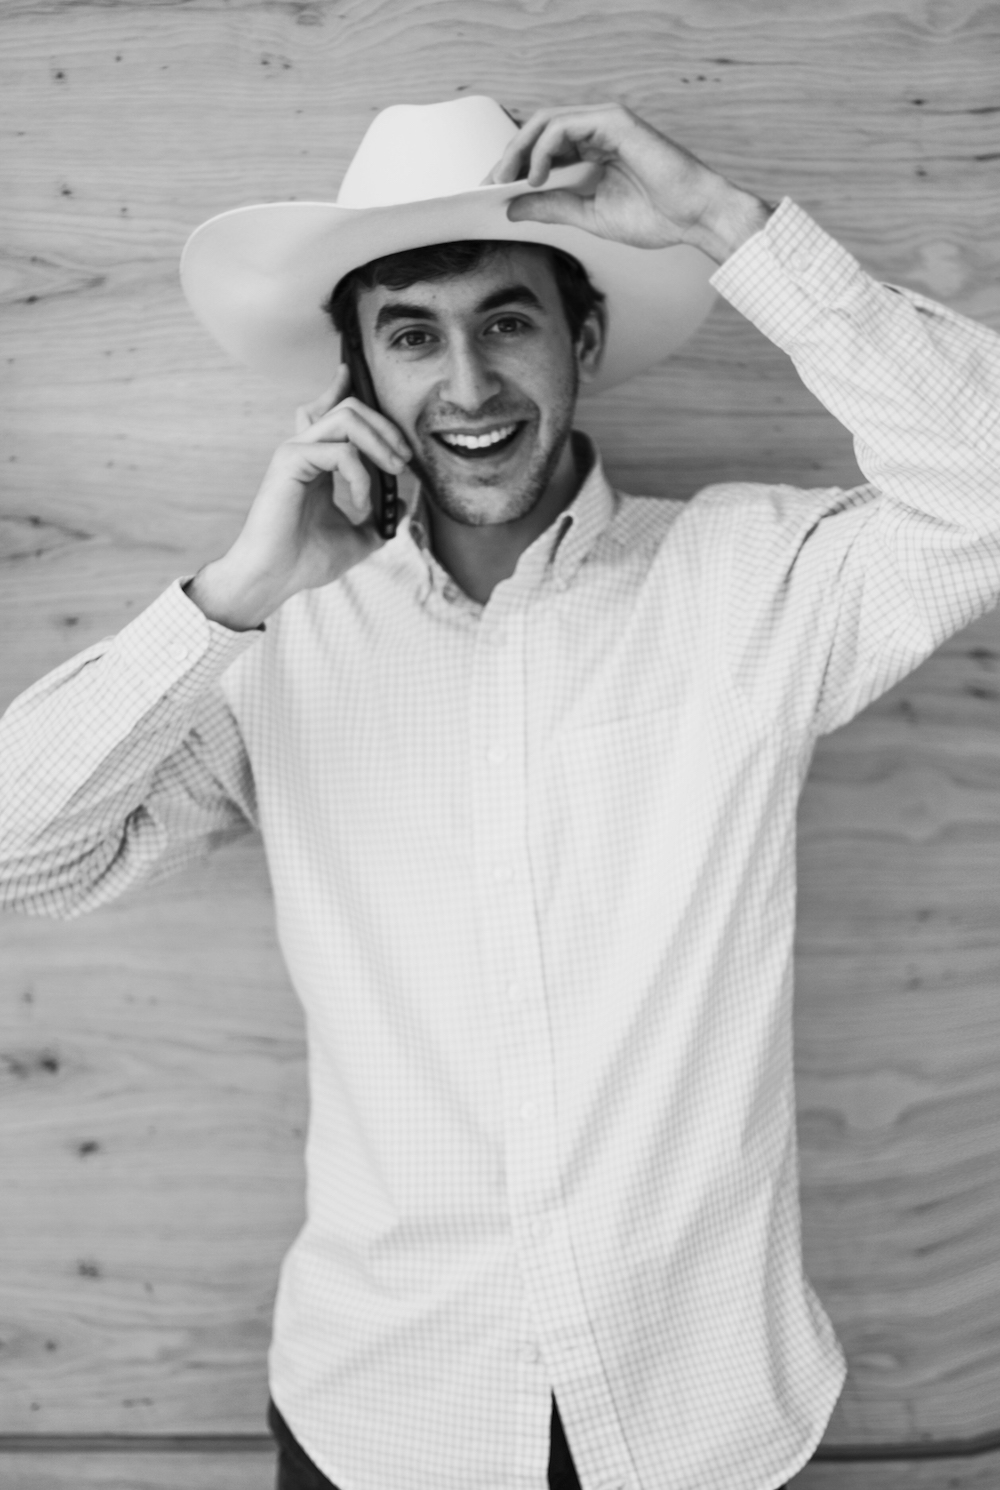
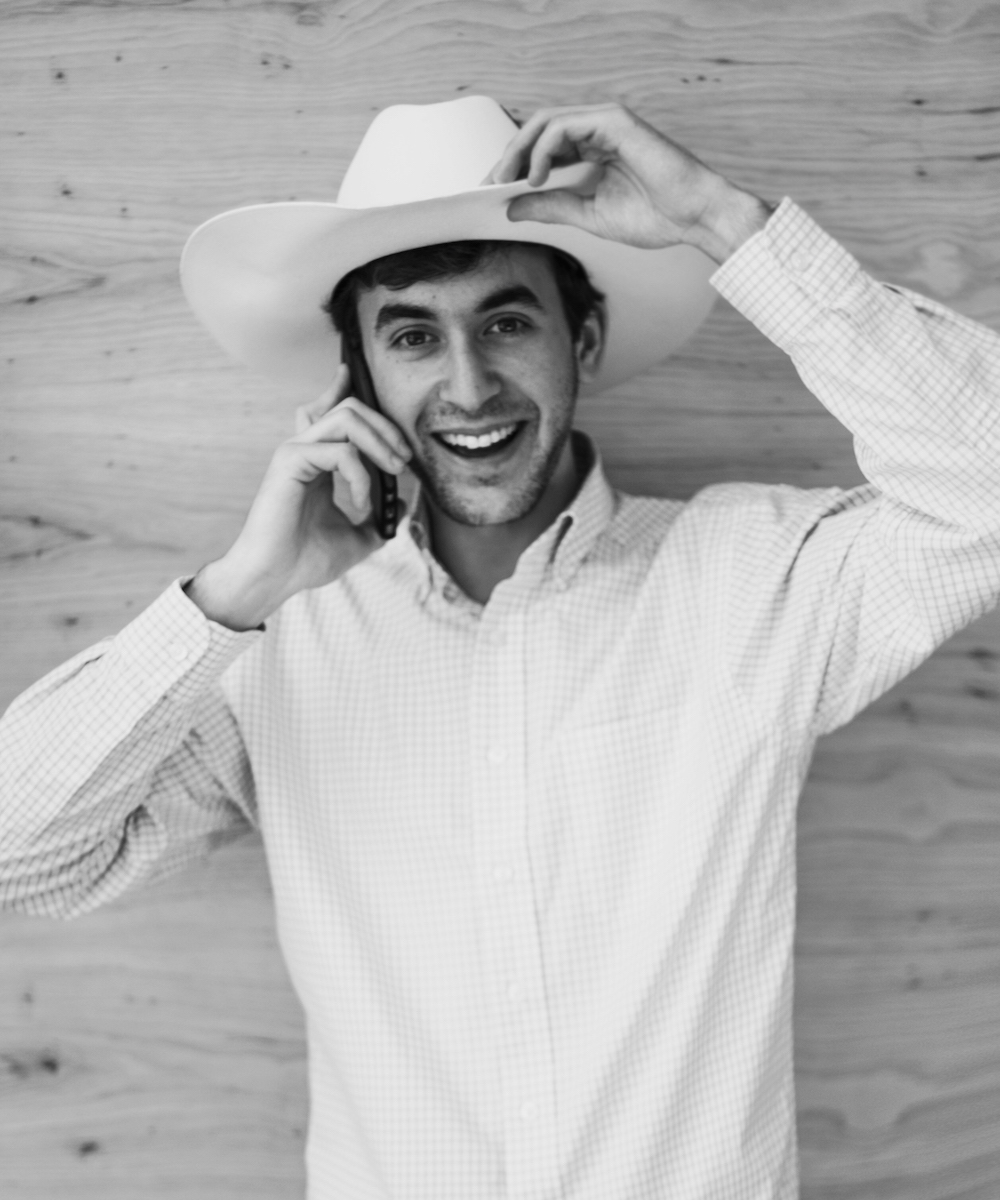
updating about

diff --git a/_sass/_pages.scss b/_sass/_pages.scss
@@ -2,7 +2,7 @@
   width: $full;
 
   &.home {
-    margin-top: $gutter;
+    margin-top: $gutter * 2;
 
     .container {
       width: $full;
@@ -101,8 +101,8 @@
 }  
   
 	&.about {
-    margin-top: $gutter;
-    
+    margin-top: $gutter * 2;
+
     .container {
       max-width: 1024px;
       width: $full;
@@ -116,7 +116,9 @@
     }
 
     .bio {
-      margin: 0 0 0 $gutter;
+      padding-left: 10px;
+      flex: 0 1 50%;
+      margin-right: 0 !important;
 
       p {
         line-height: $base-line-height;
@@ -132,12 +134,12 @@
     }
 
 		.bio-image {
-      margin: 0 $gutter 0 0;
+      padding-right: 10px;
+      box-sizing: border-box;
+      margin-left: 0 !important;
 
       img {
-        width: $full - 25%;
         display: block;
-        float: right;
         margin: 0 auto;
       }
       
